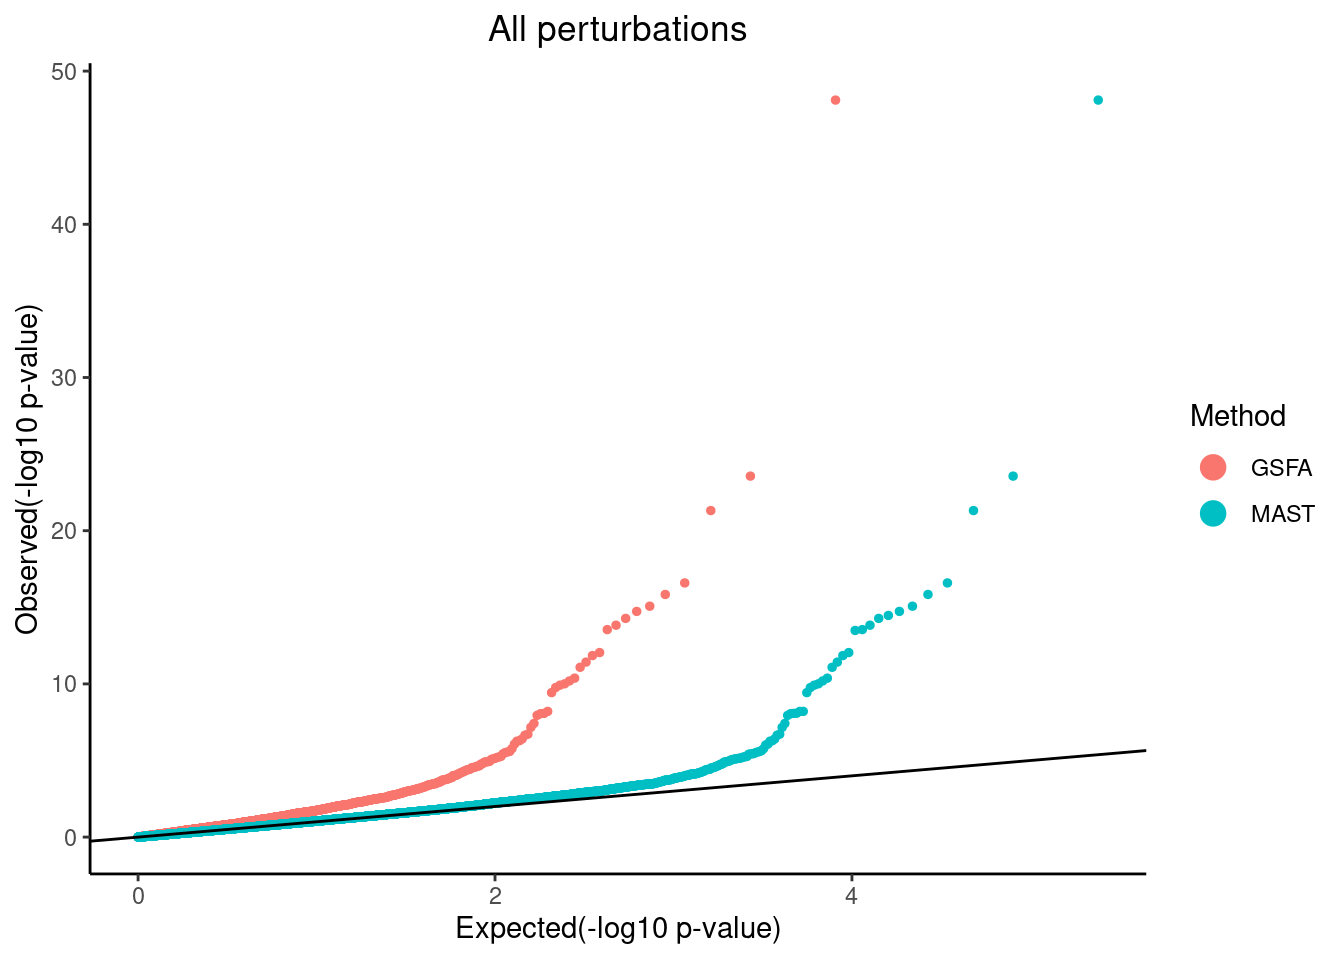
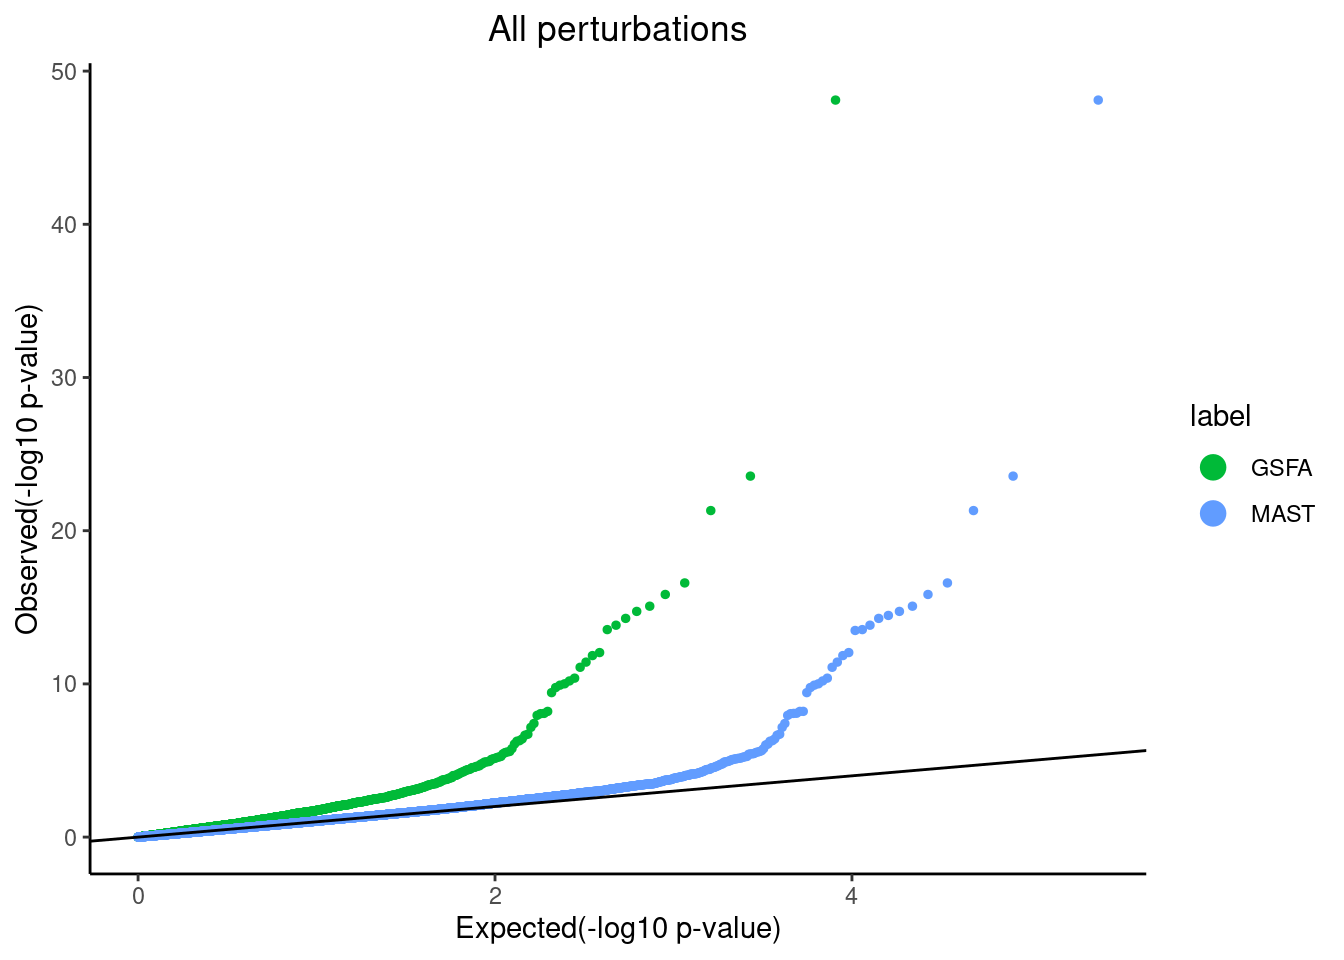
Build site.

diff --git a/docs/unguided_gsfa_Tcells_data.html b/docs/unguided_gsfa_Tcells_data.html
@@ -481,16 +481,16 @@ This reproducible <a href="https://rmarkdown.rstudio.com">R Markdown</a> analysi
 <div class="panel panel-default">
 <div class="panel-heading">
 <p class="panel-title">
-<a data-toggle="collapse" data-parent="#workflowr-checks" href="#strongRepositoryversionstrongahrefhttpsgithubcomkevinlkxGSFAanalysistree182fbec68c6977b6d164601e062dac01cac8c2f0targetblank182fbeca"> <span class="glyphicon glyphicon-ok text-success" aria-hidden="true"></span> <strong>Repository version:</strong> <a href="https://github.com/kevinlkx/GSFA-analysis/tree/182fbec68c6977b6d164601e062dac01cac8c2f0" target="_blank">182fbec</a> </a>
+<a data-toggle="collapse" data-parent="#workflowr-checks" href="#strongRepositoryversionstrongahrefhttpsgithubcomkevinlkxGSFAanalysistreeccd0e1c580382fc8067d1d11768fe8cc007493dftargetblankccd0e1ca"> <span class="glyphicon glyphicon-ok text-success" aria-hidden="true"></span> <strong>Repository version:</strong> <a href="https://github.com/kevinlkx/GSFA-analysis/tree/ccd0e1c580382fc8067d1d11768fe8cc007493df" target="_blank">ccd0e1c</a> </a>
 </p>
 </div>
[2 lines of base64/hex data omitted]
 <div class="panel-body">
 <p>
 Great! You are using Git for version control. Tracking code development and connecting the code version to the results is critical for reproducibility.
 </p>
 <p>
-The results in this page were generated with repository version <a href="https://github.com/kevinlkx/GSFA-analysis/tree/182fbec68c6977b6d164601e062dac01cac8c2f0" target="_blank">182fbec</a>. See the <em>Past versions</em> tab to see a history of the changes made to the R Markdown and HTML files.
+The results in this page were generated with repository version <a href="https://github.com/kevinlkx/GSFA-analysis/tree/ccd0e1c580382fc8067d1d11768fe8cc007493df" target="_blank">ccd0e1c</a>. See the <em>Past versions</em> tab to see a history of the changes made to the R Markdown and HTML files.
 </p>
 <p>
 Note that you need to be careful to ensure that all relevant files for the analysis have been committed to Git prior to generating the results (you can use <code>wflow_publish</code> or <code>wflow_git_commit</code>). workflowr only checks the R Markdown file, but you know if there are other scripts or data files that it depends on. Below is the status of the Git repository when the results were generated:
@@ -572,6 +572,40 @@ Message
 </tr>
 </thead>
 <tbody>
+<tr>
+<td>
+Rmd
+</td>
+<td>
+<a href="https://github.com/kevinlkx/GSFA-analysis/blob/ccd0e1c580382fc8067d1d11768fe8cc007493df/analysis/unguided_gsfa_Tcells_data.Rmd" target="_blank">ccd0e1c</a>
+</td>
+<td>
+kevinlkx
+</td>
+<td>
+2022-09-01
+</td>
+<td>
+updated colors for qq plot
+</td>
+</tr>
+<tr>
+<td>
+html
+</td>
+<td>
+<a href="https://rawcdn.githack.com/kevinlkx/GSFA-analysis/0edbbc2f6940e36e63fa5c1212f956f27205a5e9/docs/unguided_gsfa_Tcells_data.html" target="_blank">0edbbc2</a>
+</td>
+<td>
+kevinlkx
+</td>
+<td>
+2022-09-01
+</td>
+<td>
+Build site.
+</td>
+</tr>
 <tr>
 <td>
 Rmd
@@ -1376,8 +1410,46 @@ pvalue_list &lt;- list(&#39;GSFA&#39;=dplyr::filter(combined_mast_res,gsfa_gene=
 
 qqplot.pvalue(pvalue_list, pointSize = 1, legendSize = 4) + 
       ggtitle(&quot;All perturbations&quot;) + theme(plot.title = element_text(hjust = 0.5)) +
-      scale_colour_discrete(name=&quot;Method&quot;)</code></pre>
+      scale_colour_discrete(name=&quot;Method&quot;) + 
+      scale_color_manual(values=c(&quot;#00BA38&quot;,&quot;#619CFF&quot;))</code></pre>
 <p><img src="figure/unguided_gsfa_Tcells_data.Rmd/qqplots-gsfa-mast-all-combined-1.png" width="672" style="display: block; margin: auto;" /></p>
+<p>
+<button type="button" class="btn btn-default btn-xs btn-workflowr btn-workflowr-fig" data-toggle="collapse" data-target="#fig-qqplots-gsfa-mast-all-combined-1">
+Past versions of qqplots-gsfa-mast-all-combined-1.png
+</button>
+</p>
+<div id="fig-qqplots-gsfa-mast-all-combined-1" class="collapse">
+<div class="table-responsive">
+<table class="table table-condensed table-hover">
+<thead>
+<tr>
+<th>
+Version
+</th>
+<th>
+Author
+</th>
+<th>
+Date
+</th>
+</tr>
+</thead>
+<tbody>
+<tr>
+<td>
+<a href="https://github.com/kevinlkx/GSFA-analysis/blob/0edbbc2f6940e36e63fa5c1212f956f27205a5e9/docs/figure/unguided_gsfa_Tcells_data.Rmd/qqplots-gsfa-mast-all-combined-1.png" target="_blank">0edbbc2</a>
+</td>
+<td>
+kevinlkx
+</td>
+<td>
+2022-09-01
+</td>
+</tr>
+</tbody>
+</table>
+</div>
+</div>
 <br>
 <p>
 <button type="button" class="btn btn-default btn-workflowr btn-workflowr-sessioninfo" data-toggle="collapse" data-target="#workflowr-sessioninfo" style="display: block;">
